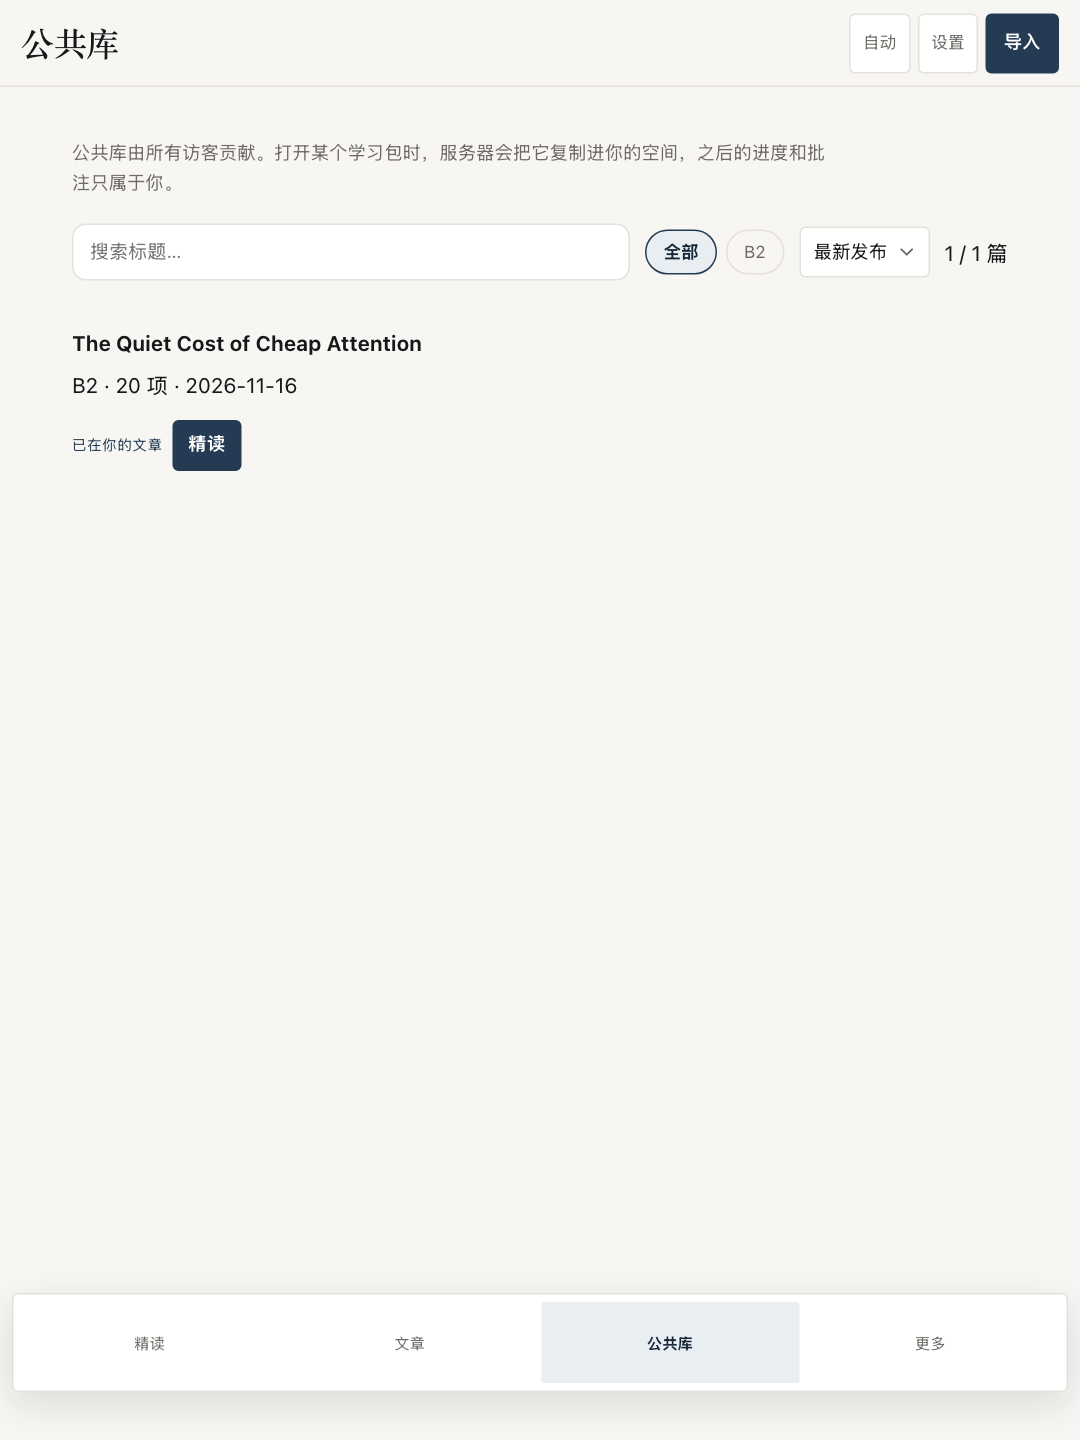
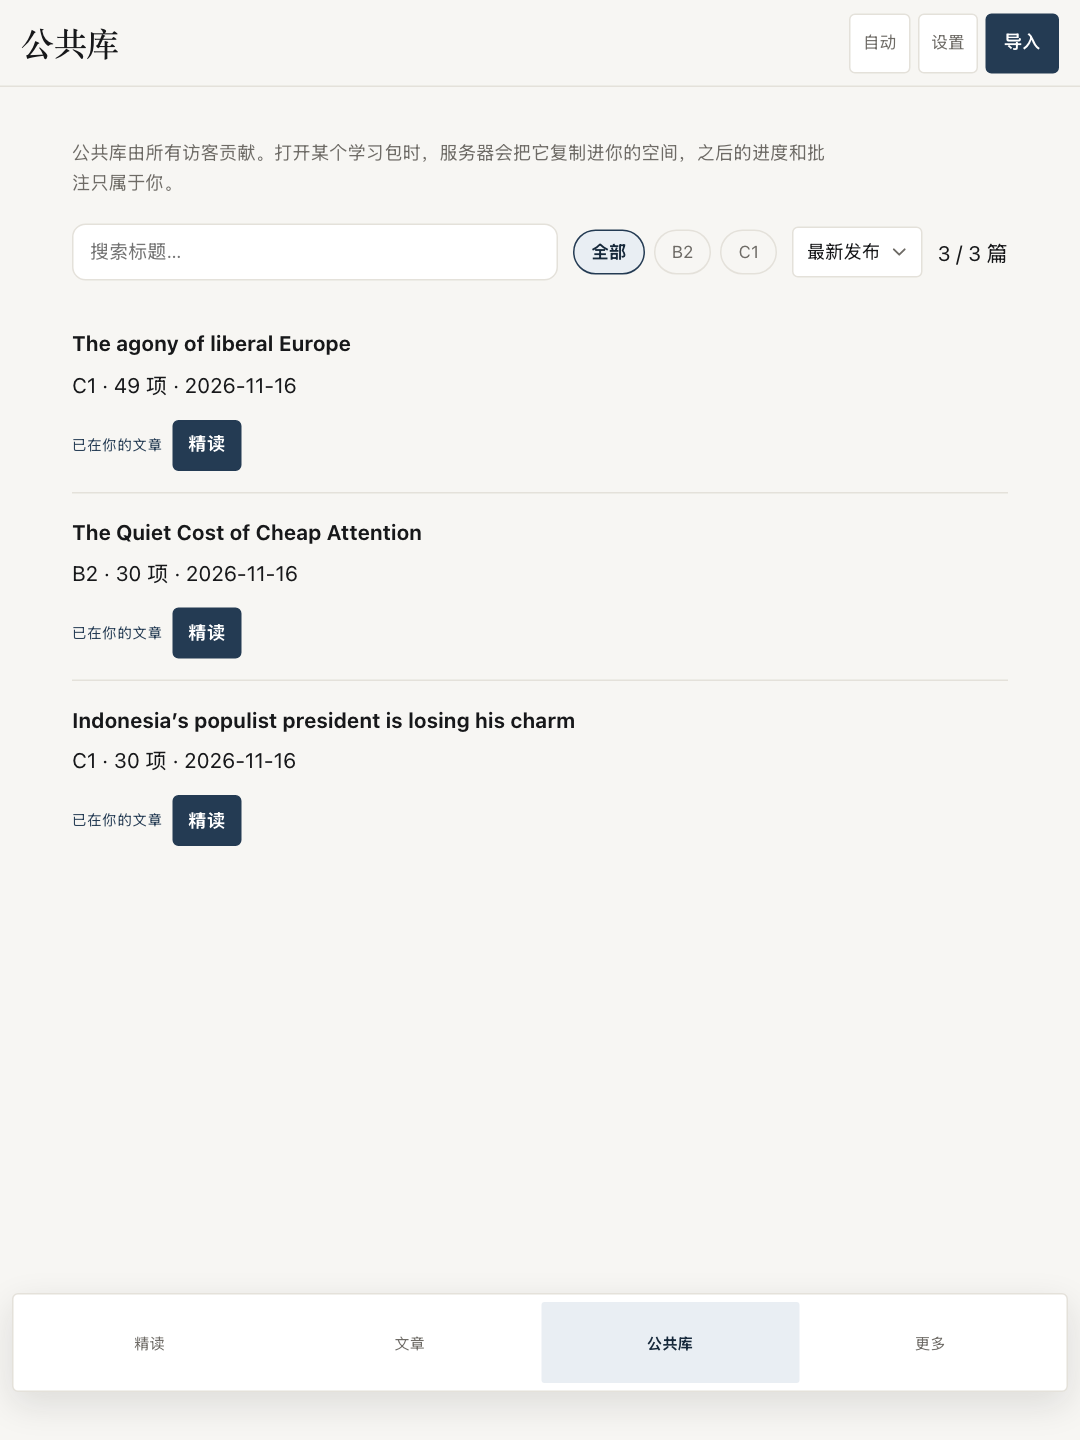
fix: anonymous visitors do not 'own' every public pack; refresh the xhs gallery
- /api/shared marked every shared pack as 已在你的文章 for the demo view, which
  reads the root store directly
- the gallery now uses one story: 600-word sample, 30 items, consistent across
  the cover, the import estimate and the reader
- the library shot is taken before any pack is opened

diff --git a/scripts/shot-xhs.ts b/scripts/shot-xhs.ts
@@ -90,8 +90,14 @@ async function scrollTo(selector: string, offset = 60) {
 async function readerUrl(): Promise<string> {
   await viewport(720, 960, 1.5)
   await open('/?tab=shared')
+  // Prefer the built-in sample: cover, import estimate and reader all quote the
+  // same 20-item article.
   const shared = await page.evaluate<string>(
-    `fetch('/api/shared').then(r => r.json()).then(d => (d.packs[0] || {}).url || '')`,
+    `fetch('/api/shared').then(r => r.json()).then(d => {
+      const packs = d.packs || []
+      const sample = packs.find((pack) => /quiet-cost/.test(pack.id)) || packs[0]
+      return (sample || {}).url || ''
+    })`,
   )
   if (shared) return shared
   const mine = await page.evaluate<string>(
@@ -105,14 +111,39 @@ try {
   await fs.mkdir(OUT, { recursive: true })
 
   const url = await readerUrl()
+  // Before any pack is opened: no "已在你的文章" tags on the list.
+  await open('/?tab=shared')
+  await page.evaluate(sleep(800))
+  await shot('09-library.png')
 
   /* ---- 03: paste an article, see the estimate ---- */
   await viewport(720, 960, 1.5)
+  // Paste about 400 words of the sample article, so the estimate (~20 items)
+  // matches the cover and the reader screenshot.
+  const sample = await fs.readFile(path.resolve('samples/sample-article.md'), 'utf8')
+  const blocks = sample
+    .split(/\n{2,}/)
+    .map((block) => block.trim())
+    .filter((block) => block && !/^#{1,6}\s/.test(block) && !/^[-*>]/.test(block))
+  const excerpt: string[] = []
+  let words = 0
+  for (const block of blocks) {
+    const count = block.split(/\s+/).filter(Boolean).length
+    if (words + count > 600 && excerpt.length > 0) {
+      // Trim the last block so the estimate lands on exactly 30 items.
+      const room = 600 - words
+      if (room > 20) excerpt.push(block.split(/\s+/).slice(0, room).join(' '))
+      break
+    }
+    excerpt.push(block)
+    words += count
+    if (words >= 600) break
+  }
   await open('/?tab=import')
   await page.evaluate(`(() => {
     const body = document.getElementById('import-text-body')
     if (!body) return false
-    body.value = 'Attention has quietly become the scarcest resource of the modern economy. It cannot be stored, borrowed, or bought in bulk, and every platform that captures it is really selling access to the people behind it.\\n\\nThe cost shows up in small places. A notification interrupts a sentence, a tab stays open for a week, and the work that needed an hour of silence never quite happens.\\n\\nDeliberate friction helps. Closing the laptop or writing the first sentence by hand turns an impulse into a decision.'
+    body.value = ${JSON.stringify(excerpt.join('\n\n'))}
     body.dispatchEvent(new Event('input', { bubbles: true }))
     return true
   })()`)
@@ -174,10 +205,6 @@ try {
   await page.evaluate(sleep(500))
   await shot('08-focus.png')
   await viewport(720, 960, 1.5)
-
-  /* ---- 09: the public library ---- */
-  await open('/?tab=shared')
-  await shot('09-library.png')
 
   /* ---- 10: command palette ---- */
   await open('/?tab=read')

diff --git a/tests/public-visitors.test.ts b/tests/public-visitors.test.ts
@@ -215,14 +215,14 @@ describe('public visitor workspaces', { concurrency: 1 }, () => {
     })
     assert.equal(unknown.status, 404)
 
-    // The demo visitor reads the root library directly, so every shared pack is
-    // already "owned" for it.
+    // A visitor that has not opened anything yet owns nothing, even though the
+    // demo view is pointed at the root library.
     const demo = cookieFrom(await fetch(`${base}/api/summary`))
     const shared = (await fetch(`${base}/api/shared`, { headers: { cookie: demo } }).then((r) =>
       r.json(),
     )) as { packs: Array<{ id: string; owned: boolean }> }
     assert.ok(shared.packs.length >= 1)
-    assert.equal(shared.packs.every((pack) => pack.owned), true)
+    assert.equal(shared.packs.every((pack) => pack.owned), false)
   })
 
   it('refuses to unpublish built-in or unknown packs', async () => {

diff --git a/src/review/server.ts b/src/review/server.ts
@@ -2057,7 +2057,11 @@ code{display:block;margin-top:18px;padding:12px;border:1px solid rgba(28,26,22,.
   if (method === 'GET' && url.pathname === '/api/shared') {
     // Packs published by the CLI land on disk; pick them up without a restart.
     await shared.reload().catch(() => {})
-    const mine = new Set(store.packs().map((pack) => pack.id))
+    // The demo view reads the shared store itself, so every pack would look
+    // "already yours". Anonymous visitors own nothing yet.
+    const mine = currentWorkspace().readOnly
+      ? new Set<string>()
+      : new Set(store.packs().map((pack) => pack.id))
     const packs = await Promise.all(
       shared.packs().map(async (pack) => {
         const meta = await sharedMeta(pack)

diff --git a/assets/xhs/cards/01-cover.html b/assets/xhs/cards/01-cover.html
@@ -66,8 +66,8 @@
 <body>
   <div class="wrap">
     <div class="eyebrow">CloseRead · 英语精读</div>
-    <h1>把英文长文<br>拆成 <em>20 张</em><br>词卡</h1>
-    <p class="sub">我只花了 3 分钟，<br>而且读完真的记住了。</p>
+    <h1>把英文长文<br>拆成 <em>30 张</em><br>词卡</h1>
+    <p class="sub">一篇 600 词的外刊，<br>读完多一叠能复习的卡。</p>
   </div>
 
   <div class="card">

diff --git a/assets/xhs/cards/12-compare.html b/assets/xhs/cards/12-compare.html
@@ -51,7 +51,7 @@
       <h2>流水线</h2>
       <ol>
         <li>整篇粘进去</li>
-        <li>自动挑 8–16 个表达</li>
+        <li>按长度自动挑表达</li>
         <li>边读边选中，自动成卡</li>
         <li>导出到 Anki 复习</li>
       </ol>
